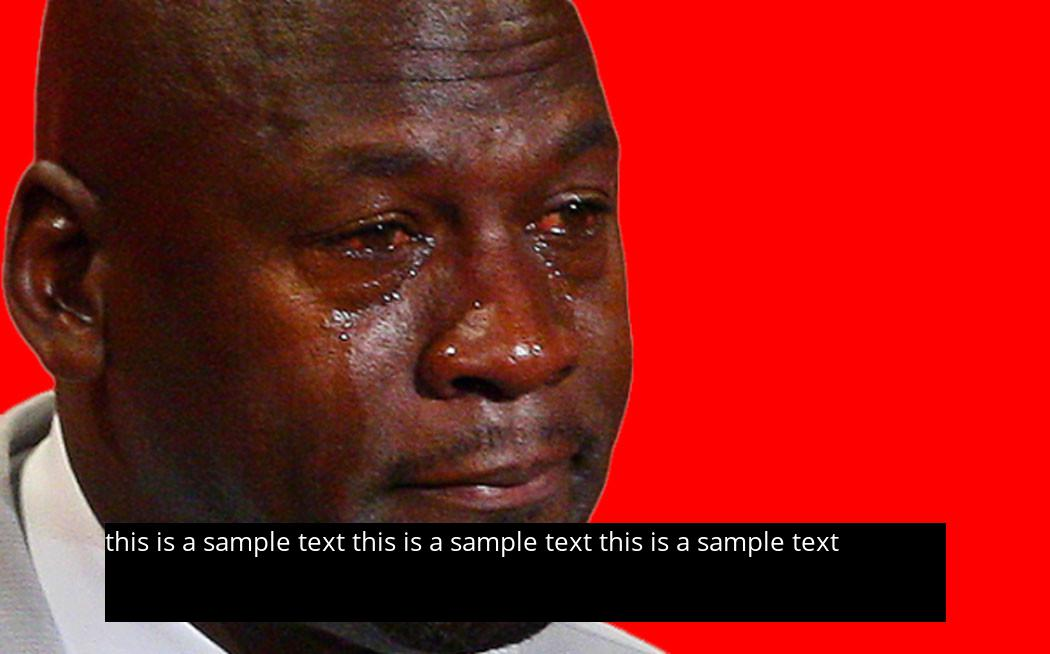
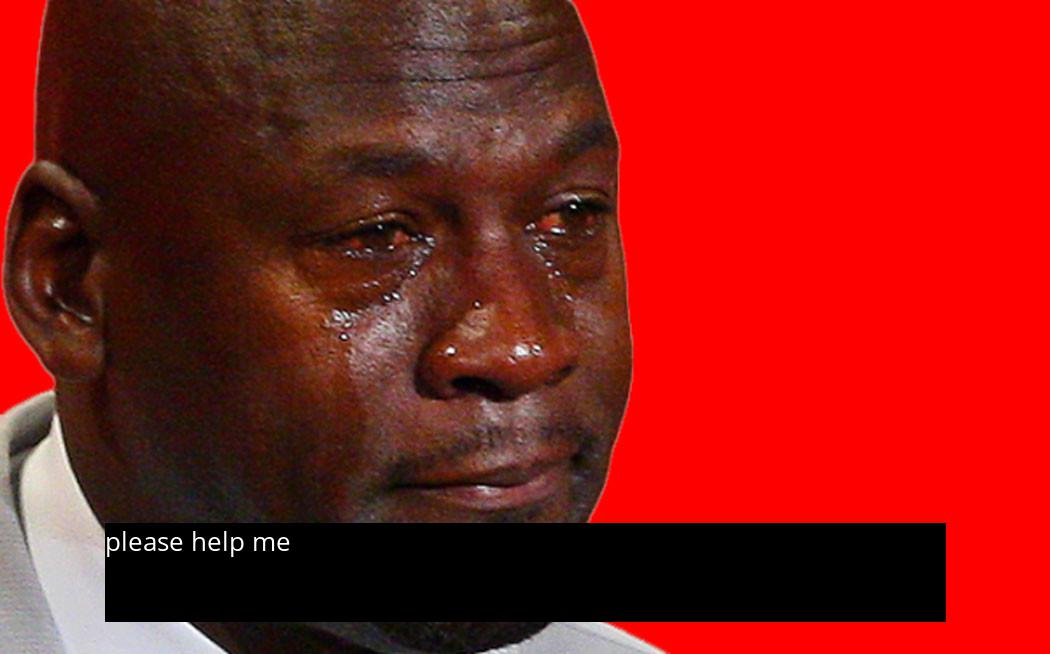
Speech recognition works

Changed region(s): [[0.0914, 0.7951, 0.7924, 0.8563]]

diff --git a/1_memes/main.py b/1_memes/main.py
@@ -23,7 +23,22 @@ def get_rand_img():
 
 # Get text from computer microphone using Google Speech Recognition
 def get_txt_from_speech():
-  initial_txt = SAMPLE_TEXT
+  r = sr.Recognizer()
+  with sr.Microphone() as source:
+      print("Say something!")
+      audio = r.listen(source)
+  try:
+      # for testing purposes, we're just using the default API key
+      # to use another API key, use
+      # `r.recognize_google(audio, key="GOOGLE_SPEECH_RECOGNITION_API_KEY")`
+      # instead of `r.recognize_google(audio)`
+      print("Google Speech Recognition thinks you said " + r.recognize_google(audio))
+  except sr.UnknownValueError:
+      print("Google Speech Recognition could not understand audio")
+  except sr.RequestError as e:
+      print("Could not request results from Google Speech Recognition service; {0}".format(e))
+  raw_text = r.recognize_google(audio)
+  initial_txt = raw_text if raw_text!=None else SAMPLE_TEXT
   txt = textwrap.fill(initial_txt, width=WIDTH/15)
   return txt
 
@@ -55,19 +70,3 @@ if __name__ == '__main__':
     meme.show()
   else:
     print('Error: Image or text not valid')
-
-# obtain audio from the microphone
-# r = sr.Recognizer()
-# with sr.Microphone() as source:
-#     print("Say something!")
-#     audio = r.listen(source)
-# try:
-#     # for testing purposes, we're just using the default API key
-#     # to use another API key, use
-#     # `r.recognize_google(audio, key="GOOGLE_SPEECH_RECOGNITION_API_KEY")`
-#     # instead of `r.recognize_google(audio)`
-#     print("Google Speech Recognition thinks you said " + r.recognize_google(audio))
-# except sr.UnknownValueError:
-#     print("Google Speech Recognition could not understand audio")
-# except sr.RequestError as e:
-#     print("Could not request results from Google Speech Recognition service; {0}".format(e))
